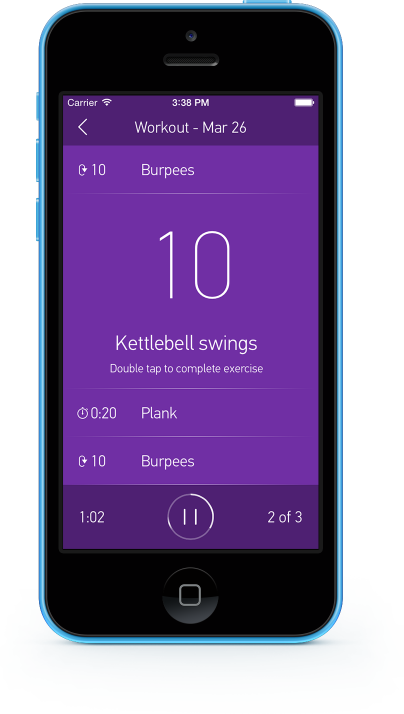
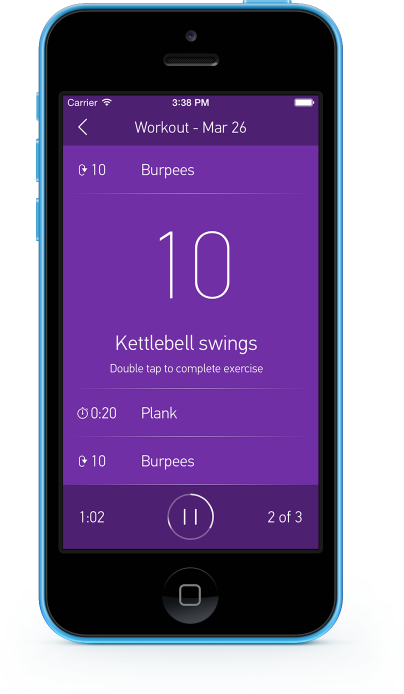
Removed blue 1px line

diff --git a/css/foundation.css b/css/foundation.css
@@ -5401,9 +5401,9 @@ th.hide-for-touch {
   margin-bottom: -8em;
   width: 404px;
   min-width: 404px;
-  height: 715px;
+  height: 694px;
   background-image: url(../img/iphone_5c_blue.png);
-  background-size: 404px, 715px;
+  background-size: 404px, 694px;
 }
 
 .iphone_case video {
